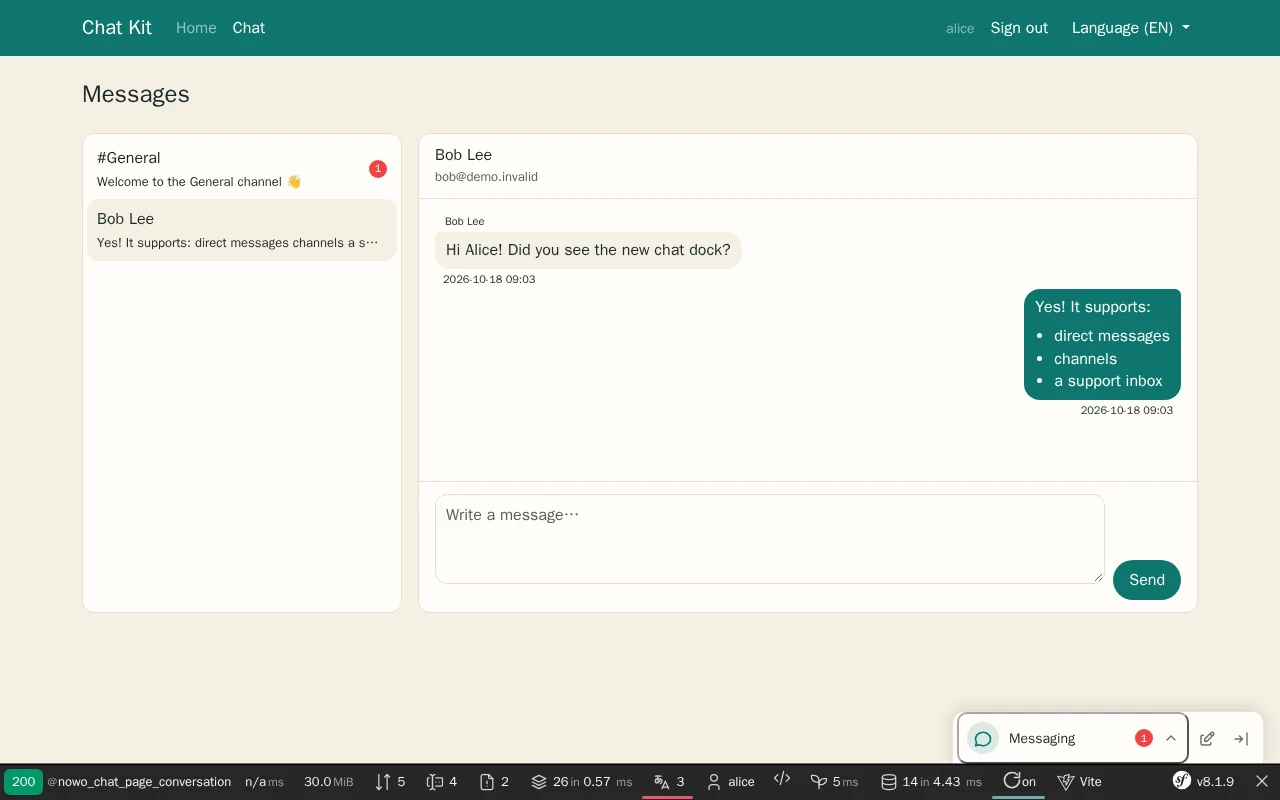
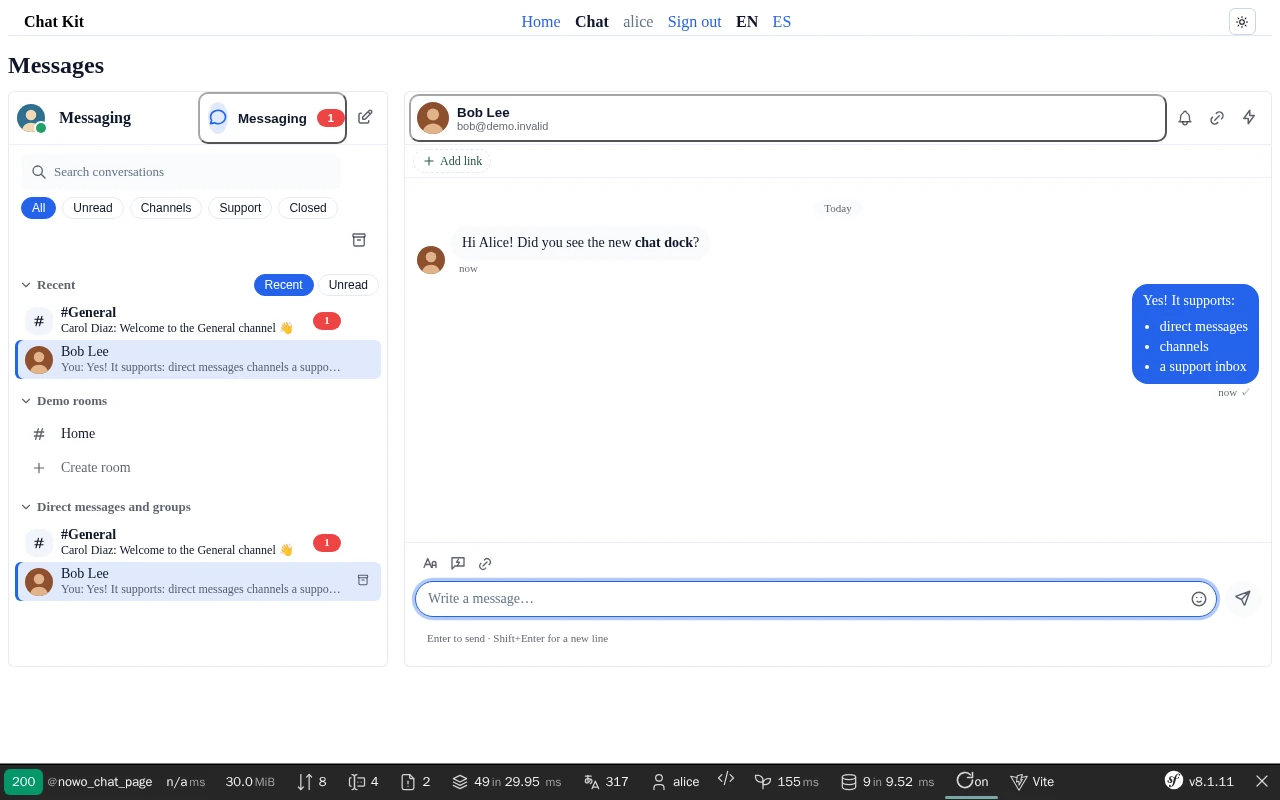
chore(demo): build the demo on UiKit and FormKit (REQ-DEMO-014/015)
The demo shell is UiKit's admin layout with its default theme (Bootstrap CDN CSS/JS, the
hand-written navbar, demo.css and the host token overrides are gone), the demo requires
ui-kit-bundle ^2.52 and form-kit-bundle ^2.23, the forms use UiKit's form theme instead of
bootstrap_5_layout, and the README WebP screenshots are refreshed. The phone e2e specs no
longer subscribe to the dev hot reload (it re-rendered the open sheet when the run wrote its
screenshots). No bundle runtime change.

diff --git a/demo/symfony8/e2e/tests/phone.spec.ts b/demo/symfony8/e2e/tests/phone.spec.ts
@@ -16,6 +16,9 @@ async function signIn(page: Page, username: string): Promise<void> {
 
 test.describe('chat dock on a phone (1.23)', () => {
   test.beforeEach(async ({ page }) => {
+    // The dev stack's FrankenPHP hot reload morphs the page when the run writes its screenshots under the demo
+    // directory, which re-renders the open sheet under the test: these specs do not subscribe to it.
+    await page.route('**/.well-known/mercure**', (route) => route.abort());
     await signIn(page, 'alice');
     await expect(page.locator('.nowo-chat.is-mobile')).toHaveCount(1);
   });

diff --git a/demo/symfony8/e2e/tests/demo.spec.ts b/demo/symfony8/e2e/tests/demo.spec.ts
@@ -172,7 +172,7 @@ test.describe('chat kit demo', () => {
     await expect(app.locator('.nowo-chat-pagemode__empty')).toBeVisible();
     // REQ-UI-003: the page renders in the UiKit host layout (nowo_ui_kit.layouts.admin) with the UiKit page header.
     await expect(page.locator('main[data-nowo-ui-bundle="NowoChatKitBundle"] [data-nowo-ui-region="header"] h1')).toHaveText('Messages');
-    await expect(page.locator('nav.demo-navbar')).toBeVisible();
+    await expect(page.locator('[data-testid="demo-masthead"]')).toBeVisible();
   });
 });
 

diff --git a/demo/symfony8/src/Form/LoginType.php b/demo/symfony8/src/Form/LoginType.php
@@ -51,7 +51,7 @@ final class LoginType extends AbstractType
         $this->addWithDefaults($builder, 'submit', SubmitType::class, [
                 'label' => 'demo.login.submit',
                 'attr' => [
-                    'class' => 'btn btn-primary',
+                    'class' => 'nowo-ui-btn nowo-ui-btn--primary',
                 ],
             ]);
     }

diff --git a/demo/symfony8/src/Form/DemoRoomType.php b/demo/symfony8/src/Form/DemoRoomType.php
@@ -38,7 +38,7 @@ final class DemoRoomType extends AbstractType
         $this->addWithDefaults($builder, 'submit', SubmitType::class, [
             'label' => 'demo.rooms.submit',
             'attr' => [
-                'class' => 'btn btn-primary',
+                'class' => 'nowo-ui-btn nowo-ui-btn--primary',
             ],
         ]);
     }

diff --git a/docs/CHANGELOG.md b/docs/CHANGELOG.md
@@ -71,6 +71,10 @@ The format is based on [Keep a Changelog](https://keepachangelog.com/en/1.1.0/),
 
 ## [Unreleased]
 
+### Demo
+
+- The demo is built on UiKit and FormKit (REQ-DEMO-014 / REQ-DEMO-015): the Bootstrap CDN CSS/JS, the hand-written navbar and the host token overrides are gone, the demo shell is UiKit's admin layout with its default theme, the demo requires `nowo-tech/ui-kit-bundle` ^2.52 and the forms are themed by UiKit's form theme (no `bootstrap_5_layout`). No bundle runtime change.
+
 ## [1.32.0] - 2026-11-16
 
 Target 1.32.0 (minor, no BC break). Retention from the runtime-setting contract (Symfony Beacon request).

diff --git a/docs/DEMO-FRANKENPHP.md b/docs/DEMO-FRANKENPHP.md
@@ -34,7 +34,7 @@ The stack uses:
 
 | Demo | UI | Default port |
 | --- | --- | --- |
-| `demo/symfony8/` | Bootstrap 5 | **8147** |
+| `demo/symfony8/` | UiKit (default theme) | **8147** |
 
 ```bash
 make -C demo up-symfony8
